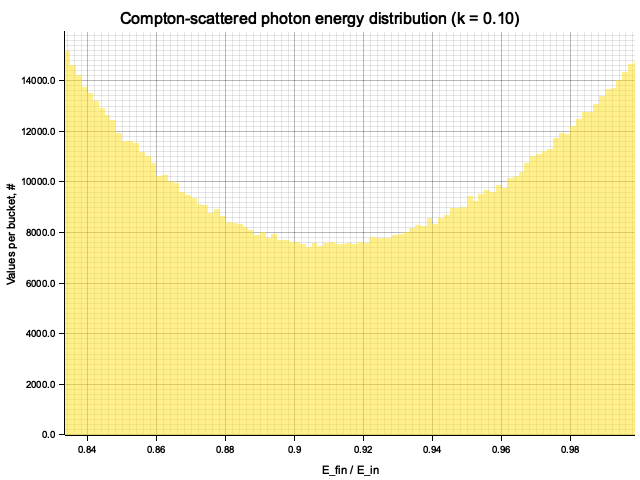
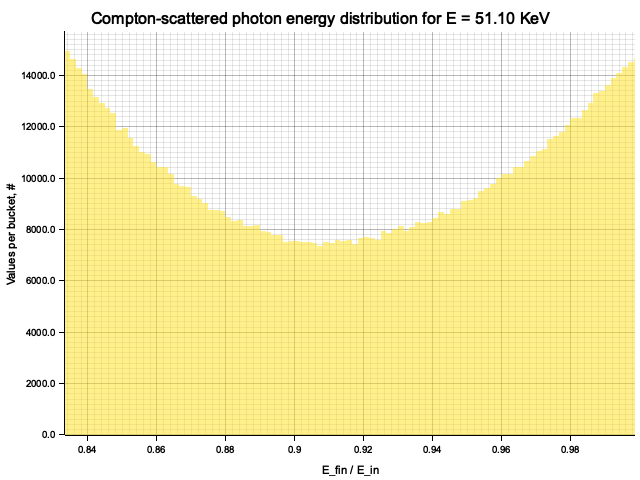
ex8 minor update

diff --git a/src/ex8.rs b/src/ex8.rs
@@ -39,12 +39,13 @@ fn sample_compton_scattering(rng: &mut ThreadRng, k: &f32) -> ScatteredPhoton {
 
 pub fn ex8() {
     let mut rng = thread_rng();
-    for k in [0.1, 0.5, 1.0, 10.0, 100.0, 1000.0] {
+    for k in [0.01, 0.1, 0.5, 1.0, 10.0, 100.0, 1000.0] {
         plot_compton_scattering_sample(&mut rng, &k);
     }
 }
 
 fn plot_compton_scattering_sample(rng: &mut ThreadRng, k: &f32) {
+    let primary_energy_kev = k * 511.0;
     let costheta = (0..1000)
         .map(|i| 1.0 - 2.0 * (i as f32) / 1000.0)
         .collect_vec();
@@ -81,8 +82,8 @@ fn plot_compton_scattering_sample(rng: &mut ThreadRng, k: &f32) {
     plot_histogram(
         &theta_hist,
         &format!(
-            "Compton-scattered photon angles distribution (k = {:.2})",
-            k
+            "Compton-scattered photon angles distribution for E = {:.2} KeV",
+            primary_energy_kev,
         ),
         "theta",
         &format!("out/ex8/k={:.2}-theta-dist.png", k),
@@ -103,8 +104,8 @@ fn plot_compton_scattering_sample(rng: &mut ThreadRng, k: &f32) {
     plot_histogram(
         &energy_hist,
         &format!(
-            "Compton-scattered photon energy distribution (k = {:.2})",
-            k
+            "Compton-scattered photon energy distribution for E = {:.2} KeV",
+            primary_energy_kev
         ),
         "E_fin / E_in",
         &format!("out/ex8/k={:.2}-E-dist.png", k),
